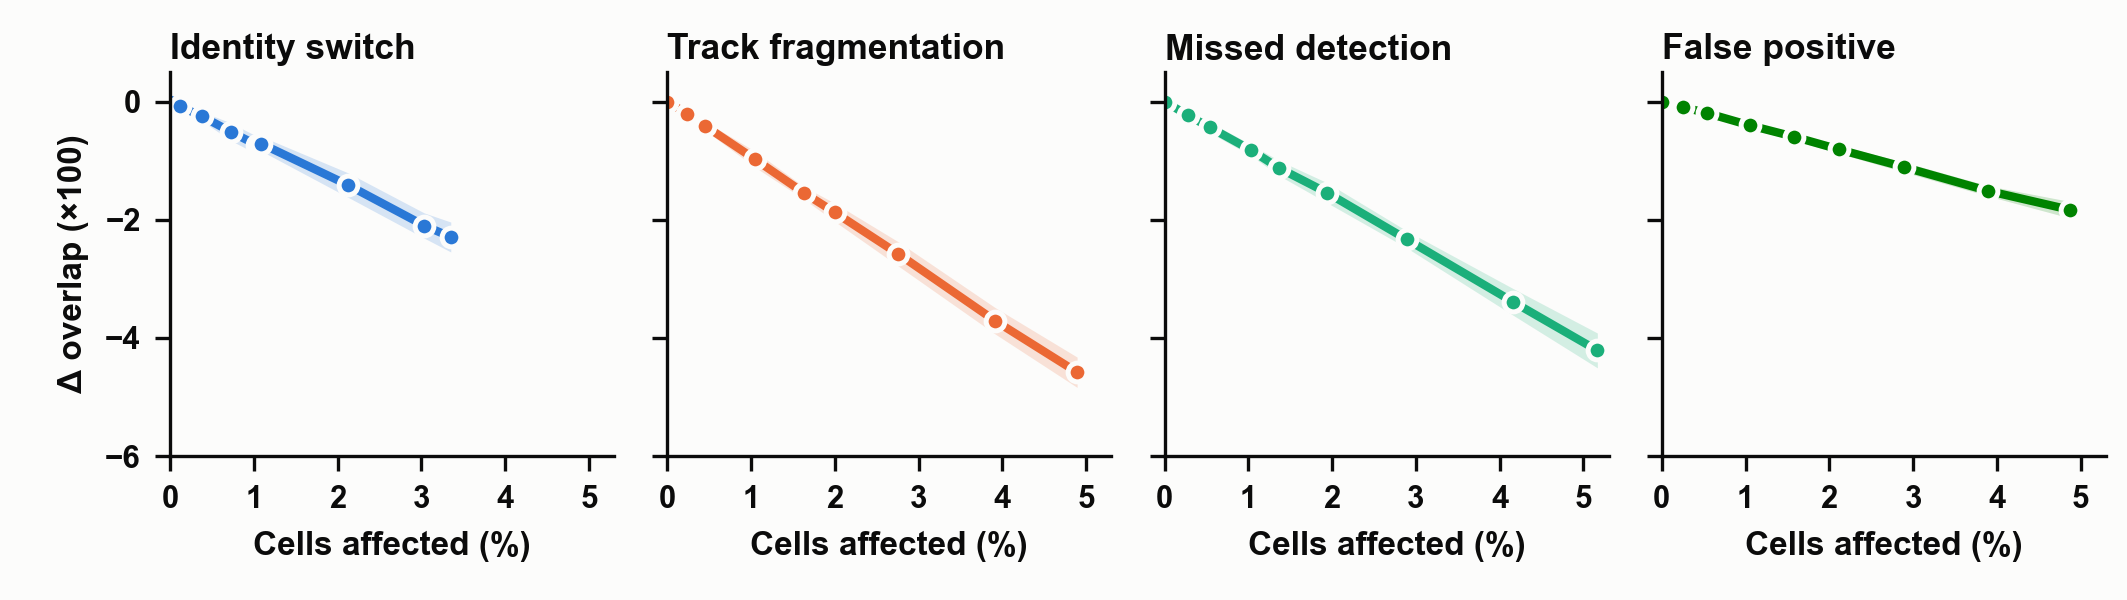
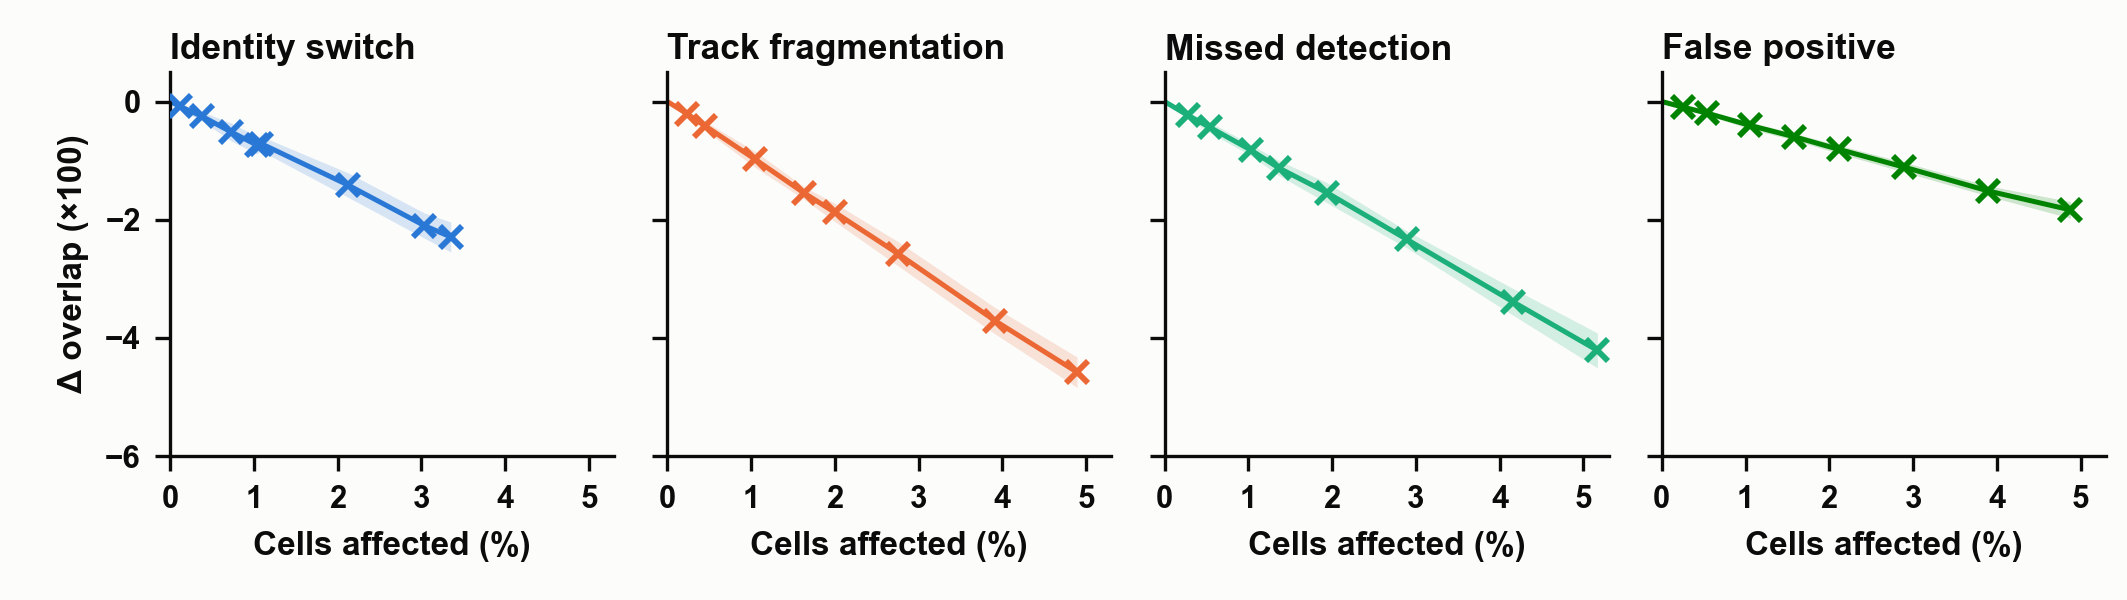
Figure 1 calibration: cross markers on a thin line

diff --git a/scripts/make_fig1.py b/scripts/make_fig1.py
@@ -257,7 +257,8 @@ def _calibration_fine(metric: str, ylabel: str, stem: str, ylim=(-6, 0.5)):
         ci = 1.96 * a.sd / np.sqrt(a.n)
         x, y = np.r_[0, 100 * a.x], np.r_[0, 100 * a.y]
         ax.fill_between(x, y - np.r_[0, 100 * ci], y + np.r_[0, 100 * ci], color=fs.SERIES[t], alpha=0.18, lw=0)
-        ax.plot(x, y, color=fs.SERIES[t], **fs.LINE, **fs.MARK)
+        ax.plot(x[1:], y[1:], color=fs.SERIES[t], ls="", marker="x", ms=5.5, mew=1.4, zorder=3)
+        ax.plot(x, y, color=fs.SERIES[t], lw=1.2, solid_capstyle="round", zorder=2)
         ax.set_title(fs.LABELS[t], loc="left", pad=3)
         ax.set_xlim(0, 5.3); ax.set_xticks([0, 1, 2, 3, 4, 5]); ax.set_ylim(*ylim)
         ax.set_xlabel("Cells affected (%)")
